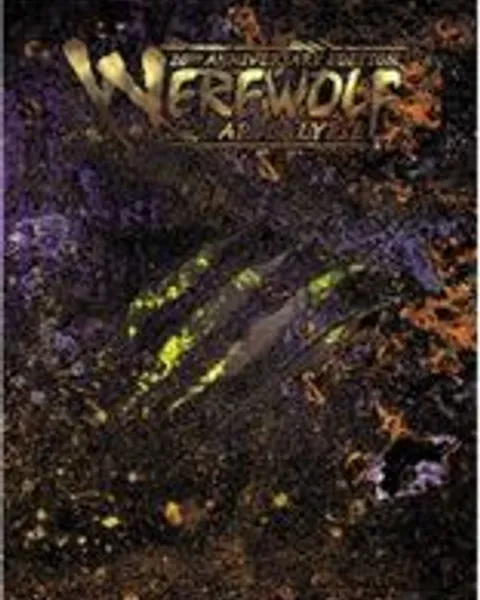
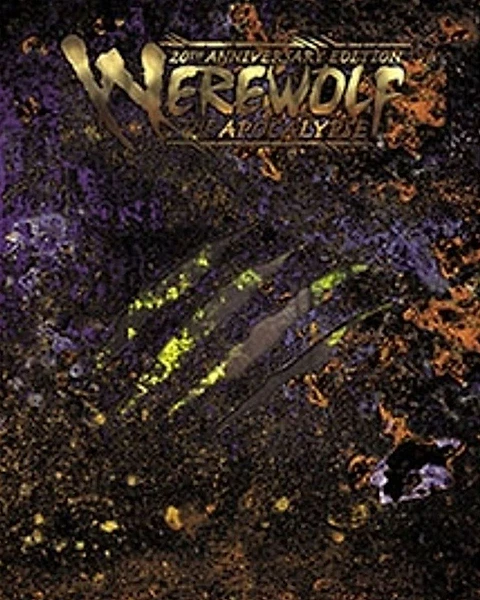
W20 picture: trimmed (no white edge) and sharpened

diff --git a/docs/art-credits.md b/docs/art-credits.md
@@ -19,3 +19,5 @@ Delete the file in `public/images/genres/` or `public/images/systems/`. For a sy
 A second pass the same day replaced 14 of those 30 with sharper pictures (2e/3e/4e covers and older books): Fate Condensed (Evil Hat's itch.io page), GURPS 3e (Warehouse 23), Call of Cthulhu 6e and Shadowrun 4e (Open Library), Nimble 5e and Savage Worlds Deluxe (Nimble Co. and Pinnacle shop pages), Mutants & Masterminds 2e, Vampire: The Requiem 1st Edition, Warhammer Fantasy Roleplay 2e (Wikipedia) and 3e, Pokémon Tabletop United (its own cover instead of StartPlaying's icon pattern), The One Ring 1e (the 2011 box; it had wrongly shown the 2nd edition cover), Classic Traveller (the Starter Edition box art, without its title) and Traveller (Mongoose 1st Edition) (its black cover, centred). Shadowrun 3e (a 389 px Open Library scan) and Legend of the Five Rings 4th Edition (300 px) are the best scans found; both are upscaled in two steps with edge sharpening (scratch script, not in the repo), so they are crisper but not more detailed.
 
 Warhammer Fantasy Roleplay 1e is the last one found: the cover of the 1995 reprint of the 1986 core rulebook, from Open Library (cover 946179, 367 px).
+
+Werewolf: The Apocalypse 20th Anniversary Edition (W20) is Noble Knight's product photo (the "1500 px" file is an upscale of a roughly 200 px original), trimmed to the book, so the white edge is gone, and sharpened in two steps; it is crisper but not more detailed. The only scan with more detail found was the Spanish edition's, which carries the Spanish title.
